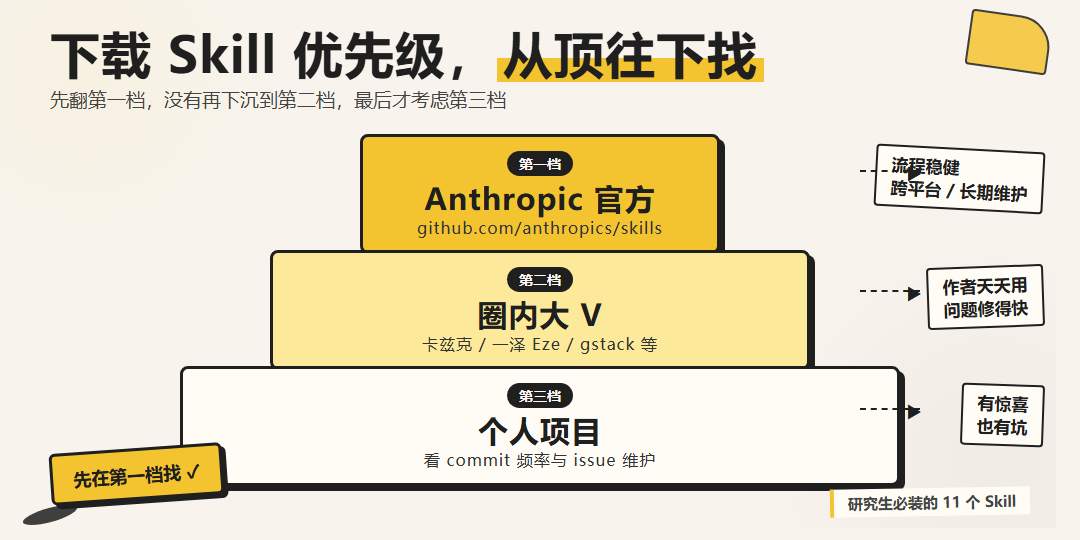
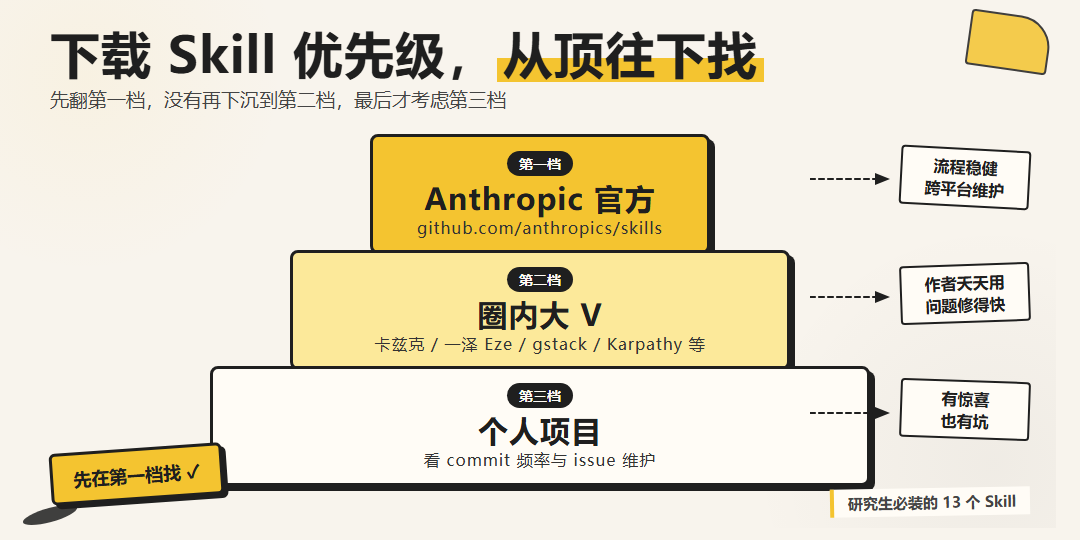
v4 polish: reorder, Karpathy, repo links, img-2/6 fixes
User pass on the 13-skill version:

- Article structure: kept user's tightened opening + "Skill 是什么" +
  two-checks frame. Reordered the 13 skills per user request:
  superpowers → 办公四件套 → hv-analysis → web-access first, then
  khazix-writer → autoplan → neat-freak → frontend-design →
  investigate → Obsidian trio → math-olympiad → claude-md-management
  → skill-creator.

- Tier-2 大V section: added Karpathy. He maintains no public skill
  repo, but his LLM Wiki gist inspired a wave of notebook/knowledge-
  base skills (the user's own LLM-Wiki vault follows that pattern).
  Tier table includes him as 「上一档大 V，启发型」 distinct from
  the active maintainers (Khazix / Eze / gstack).

- Repo URLs corrected:
  · autoplan → https://github.com/garrytan/gstack.git (gstack subdir)
  · investigate → same gstack repo (subdir investigate)
  · neat-freak → https://github.com/KKKKhazix/khazix-skills.git
    (subdir neat-freak; previously incorrectly labelled
    「社区维护，先去 GitHub 自己找」)

- img-2 (pyramid): replaced CSS border + ▶ char with inline SVG so
  dashed line and arrow tip share y=7. Notes pulled in to right:0
  (no longer hanging off the canvas), arrows now end short of
  layer right edges so nothing overlaps. l1 width 360→340,
  l2 540→500, l3 720→660 to keep clearance.

- img-6 (superpowers): canvas 520→430, lane font sizes up
  (name 18→19, zh 16→17, io 13→14), stamp + footer pulled
  much closer to lane row. Removed orphan whitespace.
[…]

diff --git a/img-6-superpowers-flow.html b/img-6-superpowers-flow.html
@@ -2,39 +2,39 @@
 <html lang="en"><head><meta charset="UTF-8"><title>img-6</title>
 <style>
   *{margin:0;padding:0;box-sizing:border-box}
-  html,body{width:1080px;height:520px;overflow:hidden}
-  body{background:#F8F4ED;background-image:radial-gradient(circle at 8% 14%,rgba(244,196,48,.06) 0,transparent 18%),radial-gradient(circle at 92% 86%,rgba(31,31,31,.04) 0,transparent 22%);font-family:'PingFang SC','Hiragino Sans GB','Microsoft YaHei',sans-serif;color:#1F1F1F;padding:26px 50px;position:relative}
+  html,body{width:1080px;height:430px;overflow:hidden}
+  body{background:#F8F4ED;background-image:radial-gradient(circle at 8% 14%,rgba(244,196,48,.06) 0,transparent 18%),radial-gradient(circle at 92% 86%,rgba(31,31,31,.04) 0,transparent 22%);font-family:'PingFang SC','Hiragino Sans GB','Microsoft YaHei',sans-serif;color:#1F1F1F;padding:22px 50px 16px;position:relative}
   body::before{content:'';position:absolute;top:14px;right:30px;width:78px;height:52px;background:#F4C430;opacity:.85;border:2.5px solid #1F1F1F;border-radius:4px 32px 4px 4px;transform:rotate(8deg)}
   body::after{content:'';position:absolute;bottom:14px;left:22px;width:56px;height:14px;background:#1F1F1F;border-radius:50%;transform:rotate(-15deg);opacity:.85}
-  .title{font-size:48px;font-weight:900;letter-spacing:1px;margin-bottom:4px;line-height:1.1}
+  .title{font-size:46px;font-weight:900;letter-spacing:1px;margin-bottom:4px;line-height:1.1}
   .title .hl{background:linear-gradient(transparent 58%,#F4C430 58%,#F4C430 94%,transparent 94%);padding:0 6px}
-  .subtitle{font-size:18px;color:#444;margin-bottom:30px;font-weight:500}
-  .lanes{display:flex;align-items:center;justify-content:space-between;gap:0;margin-top:10px}
-  .lane{flex:1;background:#FFFCF6;border:3px solid #1F1F1F;border-radius:8px;padding:14px 8px 12px;text-align:center;box-shadow:4px 4px 0 #1F1F1F;position:relative;min-height:200px}
+  .subtitle{font-size:17px;color:#444;margin-bottom:14px;font-weight:500}
+  .lanes{display:flex;align-items:stretch;justify-content:space-between;gap:0}
+  .lane{flex:1;background:#FFFCF6;border:3px solid #1F1F1F;border-radius:8px;padding:14px 8px 12px;text-align:center;box-shadow:4px 4px 0 #1F1F1F;position:relative;min-height:230px}
   .lane.first{background:#F4C430}
   .lane.last{background:#FCE99A}
-  .lane-num{display:inline-block;background:#1F1F1F;color:#FFFCF6;font-size:14px;padding:2px 10px;border-radius:99px;margin-bottom:8px;font-weight:700}
-  .lane-name{font-size:18px;font-weight:900;letter-spacing:0.5px;margin-bottom:6px;line-height:1.15;font-family:'JetBrains Mono','Consolas',monospace}
-  .lane-zh{font-size:16px;font-weight:700;color:#1F1F1F;margin-bottom:10px}
-  .lane-io{font-size:13px;color:#333;line-height:1.45;border-top:1.5px dashed #1F1F1F;padding-top:8px;margin-top:6px;text-align:left;padding-left:8px}
-  .lane-io b{color:#1F1F1F}
-  .arr{font-size:28px;color:#1F1F1F;font-weight:900;flex:0 0 22px;text-align:center}
-  .stamp{position:absolute;left:50px;bottom:30px;background:#F4C430;color:#1F1F1F;padding:8px 16px;border:3px solid #1F1F1F;border-radius:6px;font-size:15px;font-weight:800;transform:rotate(-3deg);box-shadow:4px 4px 0 #1F1F1F;max-width:380px;line-height:1.35}
-  .footer{position:absolute;bottom:18px;right:50px;font-size:14px;color:#444;background:#FFFCF6;border-left:4px solid #F4C430;padding:3px 12px;transform:rotate(-1deg);font-weight:600}
+  .lane-num{display:inline-block;background:#1F1F1F;color:#FFFCF6;font-size:15px;padding:3px 11px;border-radius:99px;margin-bottom:8px;font-weight:700}
+  .lane-name{font-size:19px;font-weight:900;letter-spacing:0.4px;margin-bottom:6px;line-height:1.18;font-family:'JetBrains Mono','Consolas',monospace;word-break:break-word}
+  .lane-zh{font-size:17px;font-weight:700;color:#1F1F1F;margin-bottom:10px}
+  .lane-io{font-size:14px;color:#1F1F1F;line-height:1.5;border-top:1.5px dashed #1F1F1F;padding-top:8px;margin-top:6px;text-align:left;padding-left:8px;font-weight:500}
+  .lane-io b{color:#1F1F1F;font-weight:800}
+  .arr{font-size:24px;color:#1F1F1F;font-weight:900;flex:0 0 18px;text-align:center;align-self:center}
+  .stamp{position:absolute;left:50px;bottom:14px;background:#F4C430;color:#1F1F1F;padding:7px 14px;border:3px solid #1F1F1F;border-radius:6px;font-size:15px;font-weight:800;transform:rotate(-3deg);box-shadow:4px 4px 0 #1F1F1F;line-height:1.3}
+  .footer{position:absolute;bottom:14px;right:50px;font-size:14px;color:#444;background:#FFFCF6;border-left:4px solid #F4C430;padding:3px 12px;transform:rotate(-1deg);font-weight:600}
 </style></head><body>
-  <div class="title">superpowers 全家桶，<span class="hl">从想到做的工程链</span></div>
+  <div class="title"><span style="font-family:'JetBrains Mono','Consolas',monospace">superpowers</span> <span class="hl">从想到做的工程链</span></div>
   <div class="subtitle">五个内置 skill 串起来，一个项目从需求到上线的完整流程</div>
   <div class="lanes">
-    <div class="lane first"><span class="lane-num">01 想</span><div class="lane-name">brainstorming</div><div class="lane-zh">需求探索</div><div class="lane-io"><b>入：</b>用户痛点<br><b>出：</b>设计文档</div></div>
+    <div class="lane first"><span class="lane-num">01 想</span><div class="lane-name">brainstorming</div><div class="lane-zh">需求探索</div><div class="lane-io"><b>入</b> 用户痛点<br><b>出</b> 设计文档</div></div>
     <div class="arr">▶</div>
-    <div class="lane"><span class="lane-num">02 计划</span><div class="lane-name">writing-plans</div><div class="lane-zh">细粒度任务</div><div class="lane-io"><b>入：</b>设计文档<br><b>出：</b>任务清单</div></div>
+    <div class="lane"><span class="lane-num">02 计划</span><div class="lane-name">writing-plans</div><div class="lane-zh">细粒度任务</div><div class="lane-io"><b>入</b> 设计文档<br><b>出</b> 任务清单</div></div>
     <div class="arr">▶</div>
-    <div class="lane"><span class="lane-num">03 实现</span><div class="lane-name">executing-plans</div><div class="lane-zh">TDD 实现</div><div class="lane-io"><b>入：</b>任务清单<br><b>出：</b>代码 + 测试</div></div>
+    <div class="lane"><span class="lane-num">03 实现</span><div class="lane-name">executing-plans</div><div class="lane-zh">TDD 实现</div><div class="lane-io"><b>入</b> 任务清单<br><b>出</b> 代码 + 测试</div></div>
     <div class="arr">▶</div>
-    <div class="lane"><span class="lane-num">04 调试</span><div class="lane-name">systematic-debug</div><div class="lane-zh">先根因再修</div><div class="lane-io"><b>入：</b>异常 / bug<br><b>出：</b>根因 + 修复</div></div>
+    <div class="lane"><span class="lane-num">04 调试</span><div class="lane-name">systematic-<wbr>debug</div><div class="lane-zh">先根因再修</div><div class="lane-io"><b>入</b> 异常 / bug<br><b>出</b> 根因 + 修复</div></div>
     <div class="arr">▶</div>
-    <div class="lane last"><span class="lane-num">05 收尾</span><div class="lane-name">finishing-branch</div><div class="lane-zh">PR / 合并</div><div class="lane-io"><b>入：</b>通过测试<br><b>出：</b>PR / 上线</div></div>
+    <div class="lane last"><span class="lane-num">05 收尾</span><div class="lane-name">finishing-<wbr>branch</div><div class="lane-zh">PR / 合并</div><div class="lane-io"><b>入</b> 通过测试<br><b>出</b> PR / 上线</div></div>
   </div>
   <div class="stamp">需求搞清 95% 才动手 ✓</div>
-  <div class="footer">研究生必装的 11 个 Skill</div>
+  <div class="footer">研究生必装的 13 个 Skill</div>
 </body></html>

diff --git a/img-2-pyramid.html b/img-2-pyramid.html
@@ -11,21 +11,20 @@
   .subtitle{font-size:19px;color:#444;margin-bottom:22px;font-weight:500}
   .pyramid{position:relative;width:980px;height:350px;margin:0 auto}
   .layer{position:absolute;left:50%;transform:translateX(-50%);background:#FFFCF6;border:3px solid #1F1F1F;border-radius:8px;padding:14px 28px;text-align:center;box-shadow:5px 5px 0 #1F1F1F}
-  .layer.l1{width:360px;top:0;background:#F4C430}
-  .layer.l2{width:540px;top:116px;background:#FCE99A}
-  .layer.l3{width:720px;top:232px;background:#FFFCF6}
+  .layer.l1{width:340px;top:0;background:#F4C430}
+  .layer.l2{width:500px;top:116px;background:#FCE99A}
+  .layer.l3{width:660px;top:232px;background:#FFFCF6}
   .layer-tag{display:inline-block;background:#1F1F1F;color:#FFFCF6;font-size:14px;padding:3px 12px;border-radius:99px;margin-bottom:6px;font-weight:700}
   .layer-name{font-size:30px;font-weight:900;letter-spacing:1px;line-height:1.1}
   .layer-name .small{font-size:16px;font-weight:500;color:#333;display:block;margin-top:4px}
-  .note{position:absolute;font-size:17px;color:#1F1F1F;line-height:1.35;background:#FFFCF6;border:2px solid #1F1F1F;padding:6px 14px;border-radius:4px;font-weight:600}
-  .note.n1{top:14px;right:-14px;transform:rotate(3deg)}
-  .note.n2{top:132px;right:-14px;transform:rotate(-2deg)}
-  .note.n3{top:250px;right:-14px;transform:rotate(2deg)}
-  .arrow{position:absolute;border-top:2px dashed #1F1F1F;width:60px;height:0}
-  .arrow.a1{top:36px;right:110px}
-  .arrow.a2{top:156px;right:110px}
-  .arrow.a3{top:274px;right:110px}
-  .arrow::after{content:'▶';position:absolute;right:-2px;top:-11px;font-size:16px}
+  .note{position:absolute;width:130px;font-size:16px;color:#1F1F1F;line-height:1.35;background:#FFFCF6;border:2px solid #1F1F1F;padding:6px 12px;border-radius:4px;font-weight:600;text-align:center}
+  .note.n1{top:14px;right:0;transform:rotate(3deg)}
+  .note.n2{top:130px;right:0;transform:rotate(-2deg)}
+  .note.n3{top:246px;right:0;transform:rotate(2deg)}
+  .arrow-svg{position:absolute;display:block}
+  .arrow-svg.a1{top:38px;right:140px}
+  .arrow-svg.a2{top:156px;right:140px}
+  .arrow-svg.a3{top:272px;right:140px}
   .stamp{position:absolute;left:50px;bottom:40px;background:#F4C430;color:#1F1F1F;padding:10px 20px;border:3px solid #1F1F1F;border-radius:6px;font-size:18px;font-weight:800;transform:rotate(-4deg);box-shadow:4px 4px 0 #1F1F1F}
   .footer{position:absolute;bottom:24px;right:50px;font-size:15px;color:#444;background:#FFFCF6;border-left:4px solid #F4C430;padding:4px 14px;transform:rotate(-1deg);font-weight:600}
 </style></head><body>
@@ -33,13 +32,15 @@
   <div class="subtitle">先翻第一档，没有再下沉到第二档，最后才考虑第三档</div>
   <div class="pyramid">
     <div class="layer l1"><span class="layer-tag">第一档</span><div class="layer-name">Anthropic 官方<span class="small">github.com/anthropics/skills</span></div></div>
-    <div class="layer l2"><span class="layer-tag">第二档</span><div class="layer-name">圈内大 V<span class="small">卡兹克 / 一泽 Eze / gstack 等</span></div></div>
+    <div class="layer l2"><span class="layer-tag">第二档</span><div class="layer-name">圈内大 V<span class="small">卡兹克 / 一泽 Eze / gstack / Karpathy 等</span></div></div>
     <div class="layer l3"><span class="layer-tag">第三档</span><div class="layer-name">个人项目<span class="small">看 commit 频率与 issue 维护</span></div></div>
-    <div class="note n1">流程稳健<br>跨平台 / 长期维护</div>
+    <svg class="arrow-svg a1" width="80" height="14" viewBox="0 0 80 14" xmlns="http://www.w3.org/2000/svg"><line x1="0" y1="7" x2="65" y2="7" stroke="#1F1F1F" stroke-width="2.2" stroke-dasharray="5,4" stroke-linecap="round"/><polygon points="65,1 80,7 65,13" fill="#1F1F1F"/></svg>
+    <svg class="arrow-svg a2" width="80" height="14" viewBox="0 0 80 14" xmlns="http://www.w3.org/2000/svg"><line x1="0" y1="7" x2="65" y2="7" stroke="#1F1F1F" stroke-width="2.2" stroke-dasharray="5,4" stroke-linecap="round"/><polygon points="65,1 80,7 65,13" fill="#1F1F1F"/></svg>
+    <svg class="arrow-svg a3" width="80" height="14" viewBox="0 0 80 14" xmlns="http://www.w3.org/2000/svg"><line x1="0" y1="7" x2="65" y2="7" stroke="#1F1F1F" stroke-width="2.2" stroke-dasharray="5,4" stroke-linecap="round"/><polygon points="65,1 80,7 65,13" fill="#1F1F1F"/></svg>
+    <div class="note n1">流程稳健<br>跨平台维护</div>
     <div class="note n2">作者天天用<br>问题修得快</div>
     <div class="note n3">有惊喜<br>也有坑</div>
-    <div class="arrow a1"></div><div class="arrow a2"></div><div class="arrow a3"></div>
   </div>
   <div class="stamp">先在第一档找 ✓</div>
-  <div class="footer">研究生必装的 11 个 Skill</div>
+  <div class="footer">研究生必装的 13 个 Skill</div>
 </body></html>
